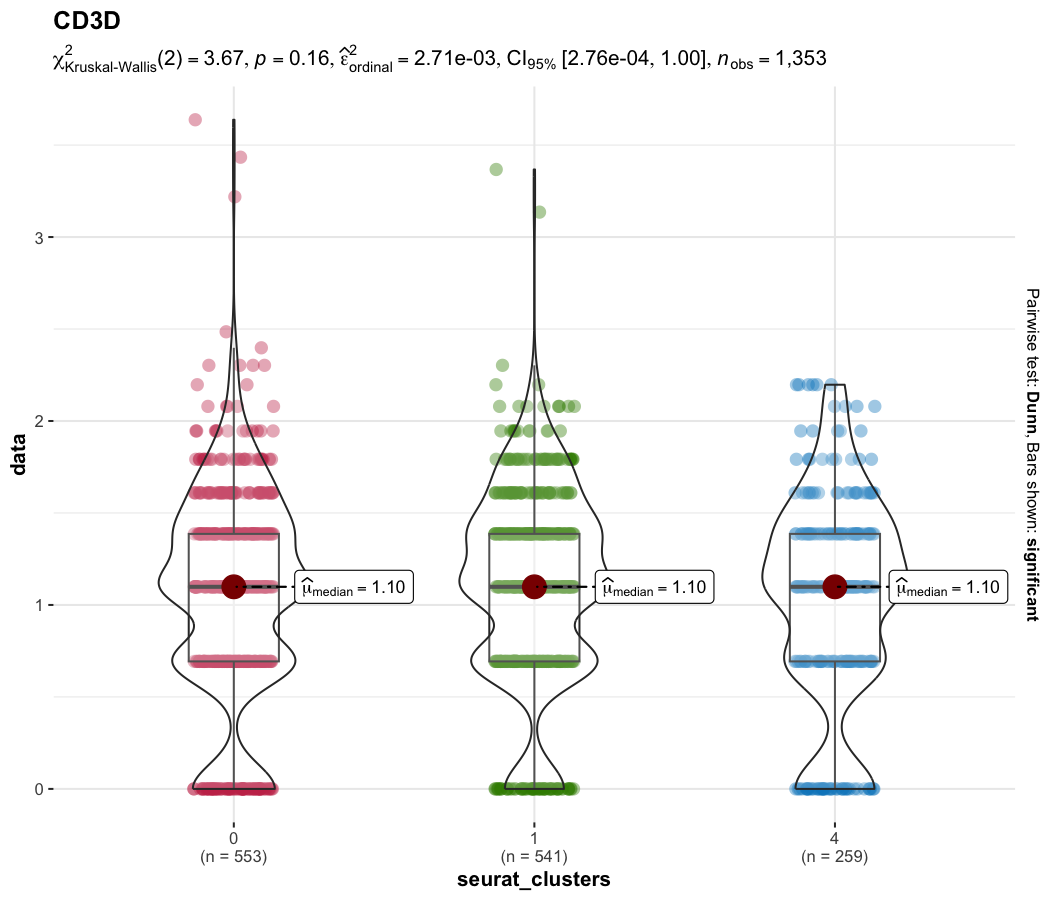
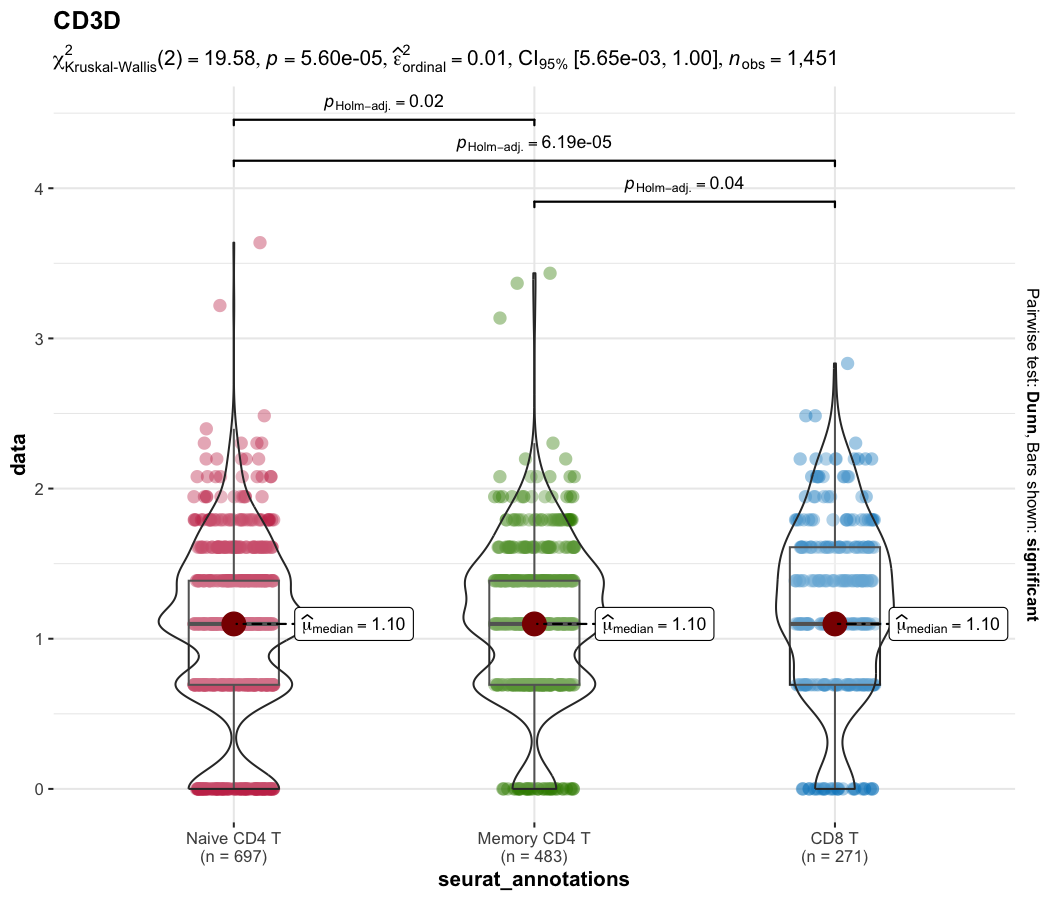
docs: use seurat_annotations and clean up pairwise display in vignettes
Switch violin examples from seurat_clusters to seurat_annotations for
biological context. Suppress pairwise brackets on full-group examples
to avoid clutter; show them only in group.levels examples where the
reduced group count keeps brackets readable.

diff --git a/README.md b/README.md
@@ -96,8 +96,8 @@ Seurat-aware data extraction, automatic colour generation, and a
 
 ``` r
 do_StatsViolinPlot(pbmc3k, features = "CD3D",
-                   group.by = "seurat_clusters",
-                   group.levels = c("0", "1", "4"))
+                   group.by = "seurat_annotations",
+                   group.levels = c("Naive CD4 T", "Memory CD4 T", "CD8 T"))
 ```
 
 <img src="man/figures/README-stats-violin-1.png" alt="" width="100%" />
